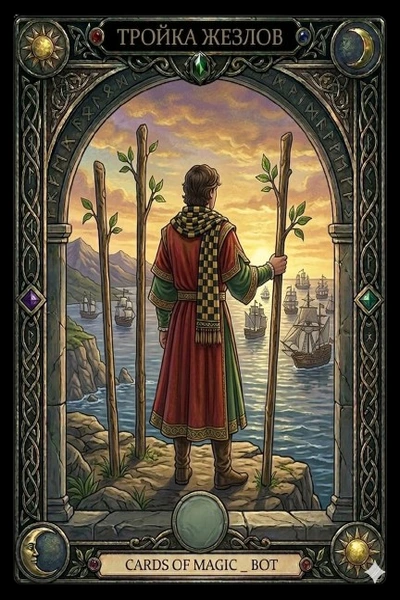
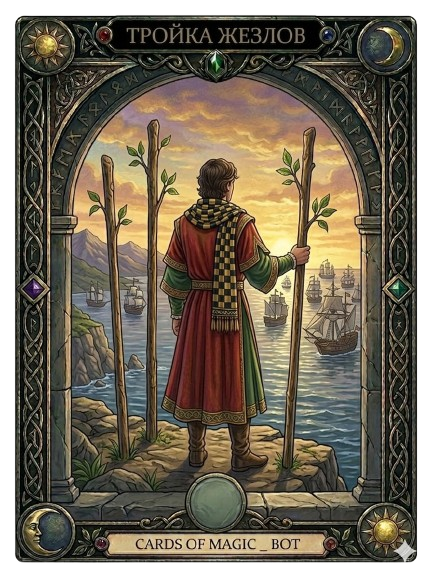
fix: replace wand card images with clean versions + new card-of-day header
- Replaced 13/14 wand cards (wands-01 to wands-14, except wands-05)
- wands-05 (пятерка жезлов) was accidentally sent as девятка — keeping original
- Updated card-of-day-header.webp with new design
- Raised bottom nav padding (6px → 14px) for better visibility

diff --git a/src/components/layout/BottomNav.tsx b/src/components/layout/BottomNav.tsx
@@ -21,7 +21,7 @@ export default function BottomNav() {
 
   return (
     <nav className="fixed bottom-0 left-0 right-0 bg-mystic-card/95 backdrop-blur-md border-t border-mystic-accent/20 z-50">
-      <div className="flex items-end justify-around px-0.5 pt-1.5 pb-[max(6px,env(safe-area-inset-bottom))]">
+      <div className="flex items-end justify-around px-0.5 pt-1.5 pb-[max(14px,env(safe-area-inset-bottom))]">
         {NAV_ITEMS.map((item) => {
           const isActive = currentScreen === item.screen;
           const isShop = item.screen === 'shop';
